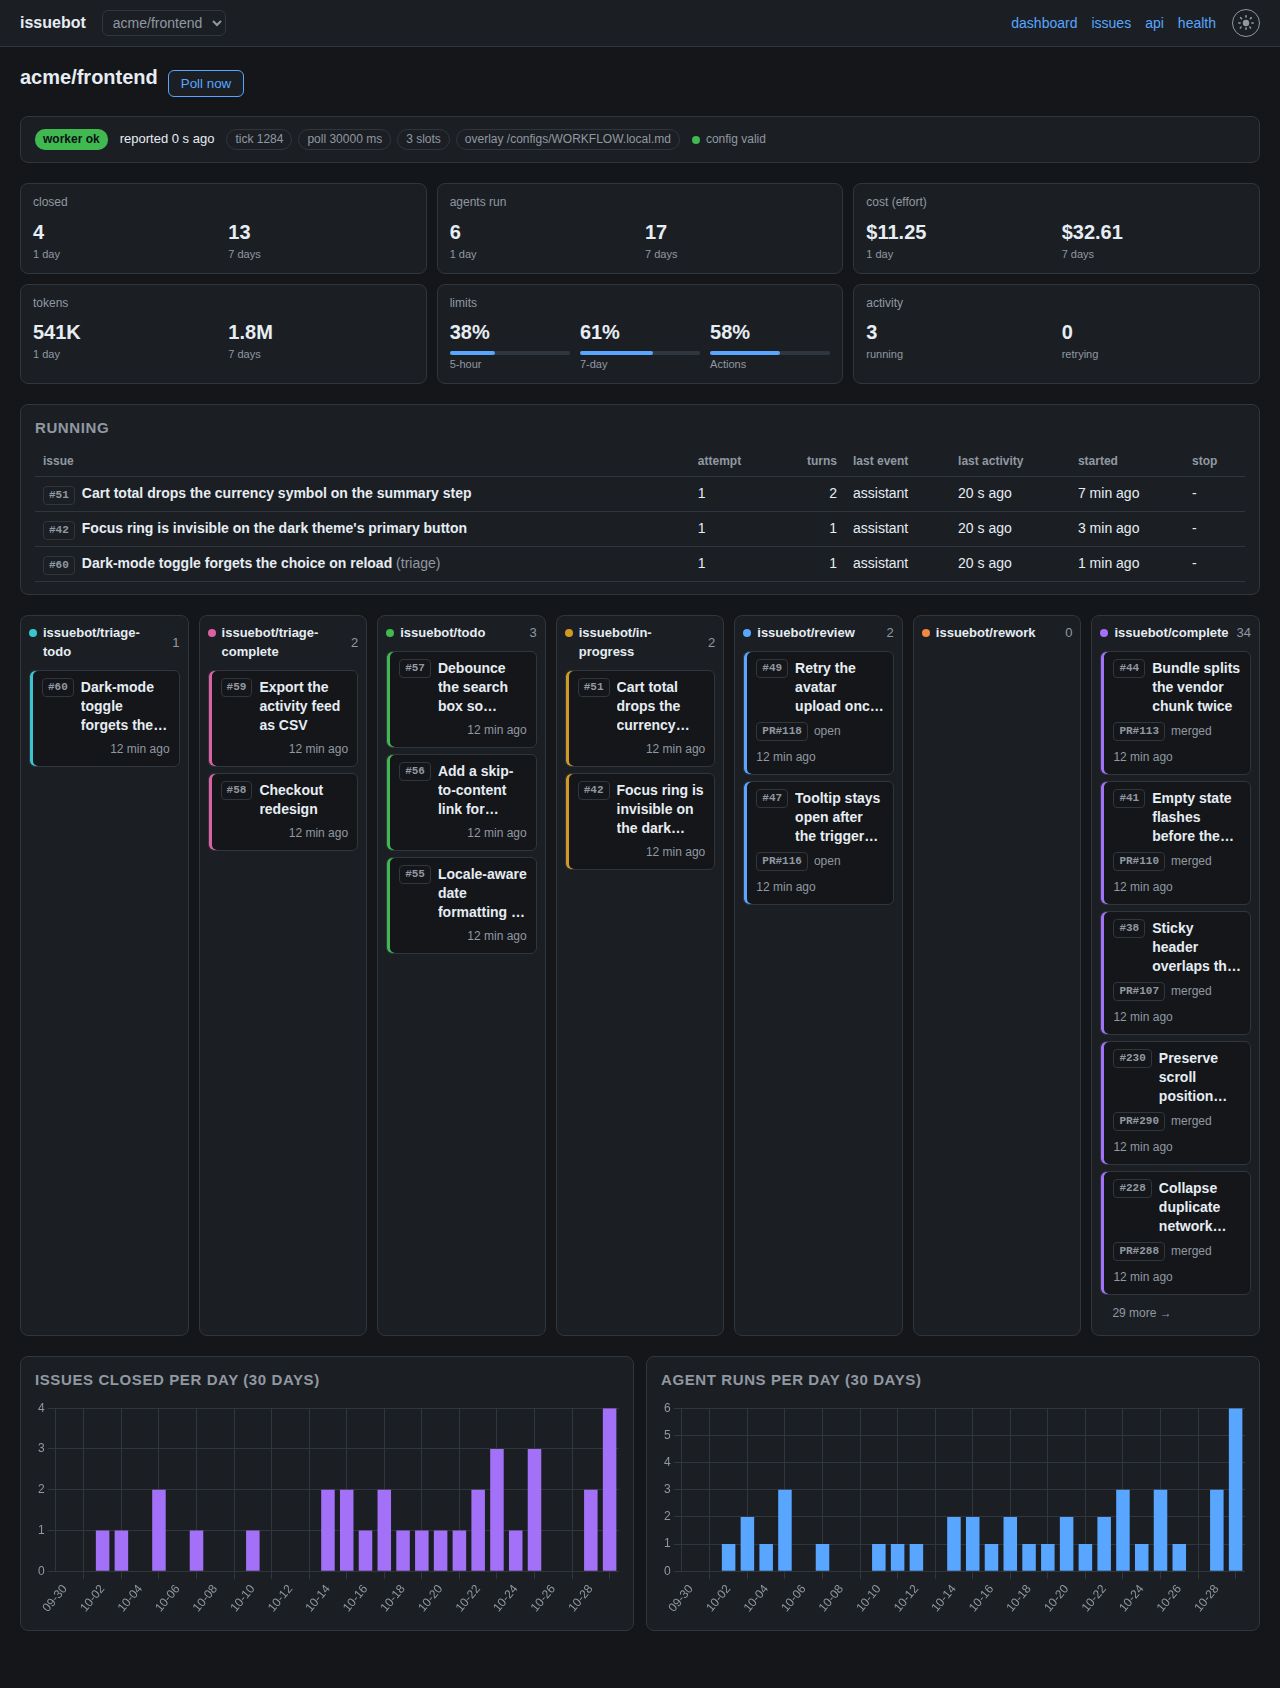
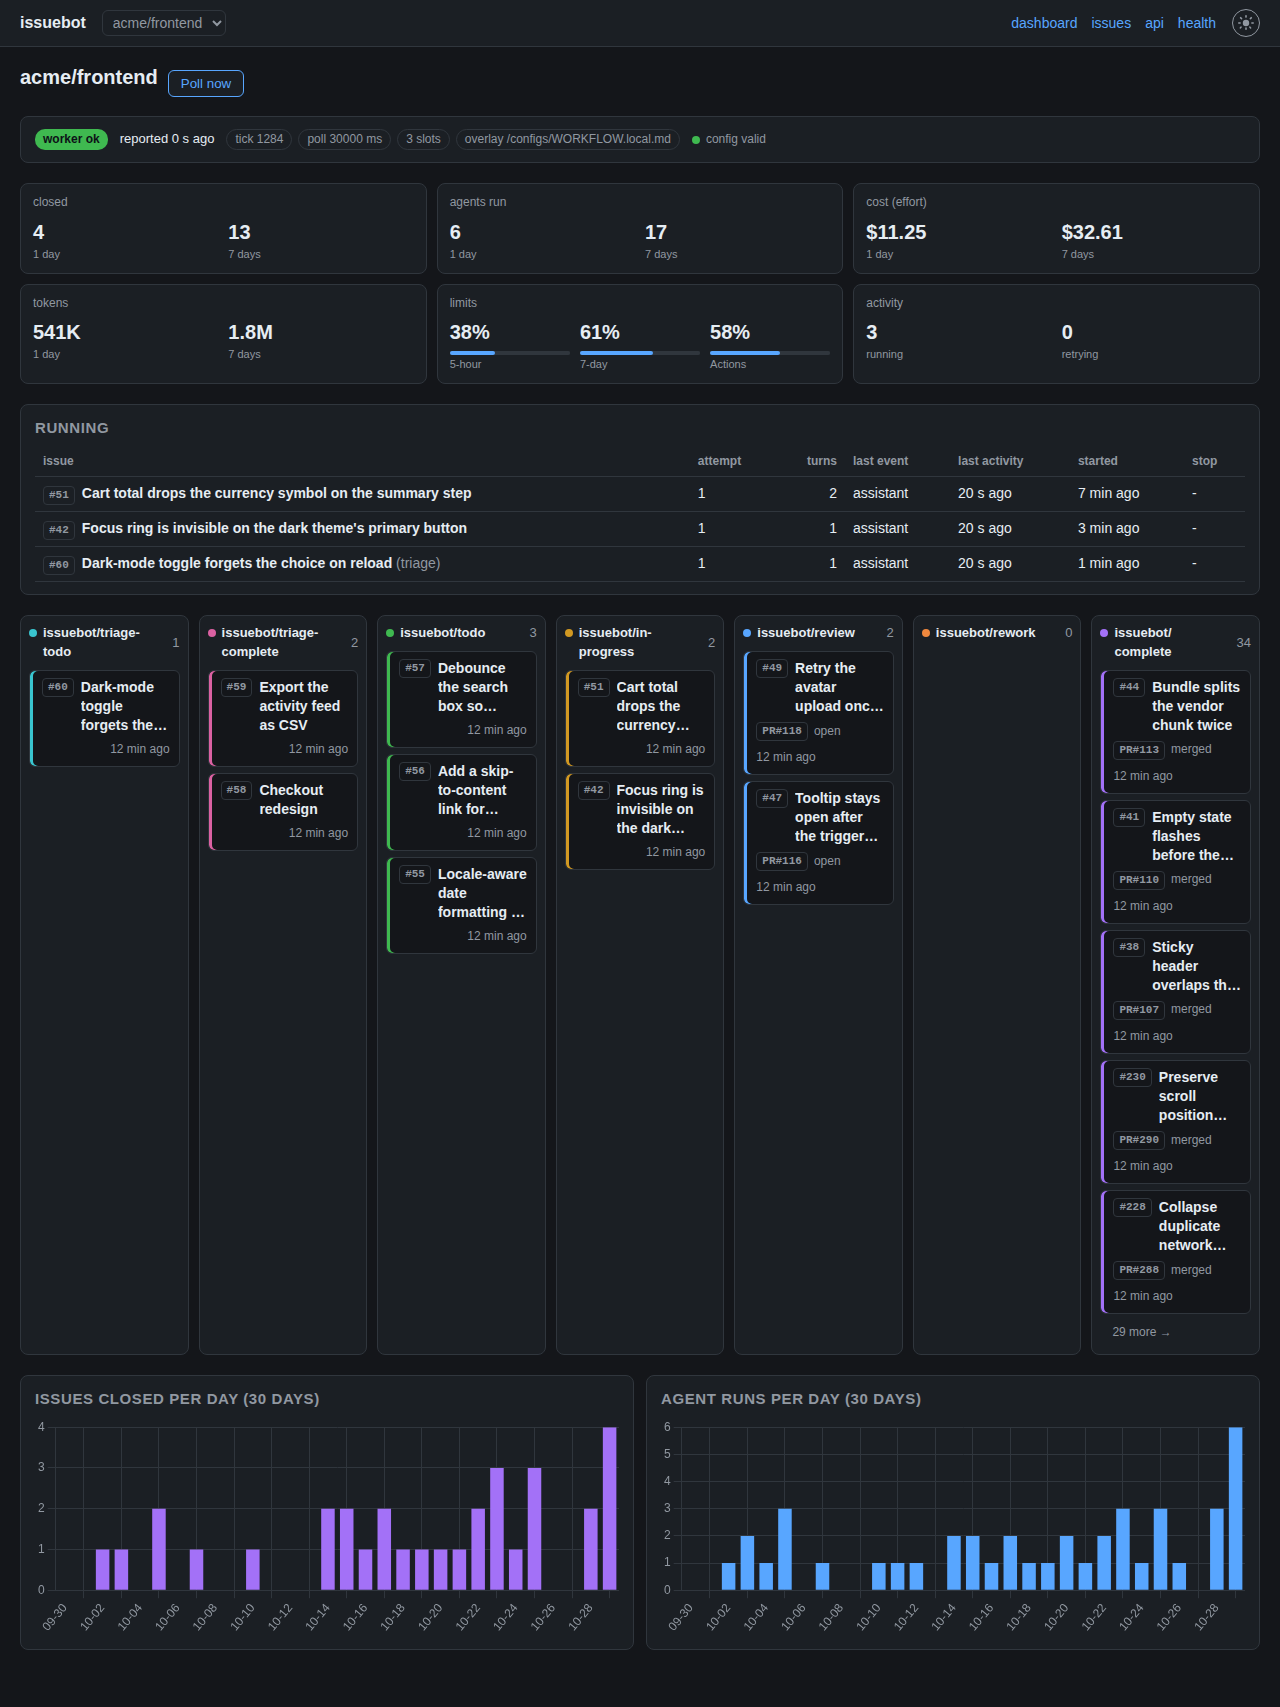
web: a column heading may break after each slash, and the README's images regenerated
issuebot/complete has no hyphen, so in the 150 px columns its heading ran
into its count. The label is escaped first, then <wbr> follows each slash.

Claude-Session: https://claude.ai/code/session_019agwxcWUZKkqVuL73ZfE76

diff --git a/src/issuebot/web/templates/partials/dashboard.html b/src/issuebot/web/templates/partials/dashboard.html
@@ -134,7 +134,7 @@
 <section class="kanban">
   {% for column in live.columns %}
   <div class="column {{ column.role }}">
-    <h3><span class="name">{{ column.label }}</span><span class="count">{{ column.total }}</span></h3>
+    <h3><span class="name">{{ column.label|replace("/", "/<wbr>"|safe) }}</span><span class="count">{{ column.total }}</span></h3>
     {% for row in column.rows %}
     <div class="card">
       <a class="issue-ref" href="{{ repo.base }}/issues/{{ row.number }}"><span class="chip">#{{ row.number }}</span><span class="text">{{ row.title }}</span></a>

diff --git a/tests/test_web_pages.py b/tests/test_web_pages.py
@@ -117,7 +117,7 @@ def test_the_dashboard_renders_and_escapes(h: Harness) -> None:
     assert '<link rel="icon" href="data:,">' in text
     assert '"code": "503", "swap": true' in text
     for label in GitHubLabels().as_tuple():
-        assert label in text
+        assert label.replace("/", "/<wbr>") in text
     assert f'href="{BASE}/issues/7"' in text and f'href="{BASE}/issues/3"' in text
     assert "javascript:" not in text and "PR#4" in text
     assert "<script>" not in text and ' style="' not in text  # the CSP forbids inline code
@@ -295,7 +295,7 @@ def test_the_board_has_a_column_per_board_column_in_order(h: Harness) -> None:
     text = html(h.client.get(f"{BASE}/partials/dashboard"))
     classes = re.findall(r'<div class="column ([a-z_]+)">', text)
     assert classes == list(BOARD_COLUMNS)
-    assert "issuebot/triage-todo" in text and "issuebot/triage-complete" in text
+    assert "issuebot/<wbr>triage-todo" in text and "issuebot/<wbr>triage-complete" in text
 
 
 def test_the_running_title_is_still_escaped(h: Harness) -> None:
@@ -1010,7 +1010,20 @@ def test_the_scripts_load_in_an_order_app_js_can_work_in(h: Harness) -> None:
 def test_the_board_uses_the_repositorys_own_labels(h: Harness) -> None:
     h.register("acme/frontend", labels={**GitHubLabels().model_dump(), "review": "team/check"})
     text = html(h.client.get("/r/acme/frontend/"))
-    assert "team/check" in text and "issuebot/review" not in text
+    assert "team/<wbr>check" in text and "issuebot/review" not in text
+
+
+def test_a_column_heading_may_break_after_each_slash(h: Harness) -> None:
+    """``issuebot/complete`` has no hyphen, so without a ``<wbr>`` it overran its count."""
+    text = html(h.client.get(f"{BASE}/partials/dashboard"))
+    assert '<span class="name">issuebot/<wbr>complete</span>' in text
+
+
+def test_a_column_heading_is_escaped_before_the_break_is_added(h: Harness) -> None:
+    h.register("acme/frontend", labels={**GitHubLabels().model_dump(), "complete": "a<b>/c"})
+    text = html(h.client.get("/r/acme/frontend/"))
+    assert '<span class="name">a&lt;b&gt;/<wbr>c</span>' in text
+    assert "<b>" not in text
 
 
 # --- the pure helpers -------------------------------------------------------------------------

diff --git a/tests/test_web_app_db.py b/tests/test_web_app_db.py
@@ -184,7 +184,7 @@ async def test_the_dashboard_renders_the_seeded_rows(client: TestClient) -> None
     response = client.get(f"{BASE}/")
     assert response.status_code == 200
     for label in GitHubLabels().as_tuple():
-        assert label in response.text
+        assert label.replace("/", "/<wbr>") in response.text
     assert (
         "Issue 7 &lt;b&gt;title&lt;/b&gt;" in response.text and "<b>title</b>" not in response.text
     )

diff --git a/tests/test_web_theme.py b/tests/test_web_theme.py
@@ -358,7 +358,7 @@ def test_the_column_heading_names_its_state_in_words_too() -> None:
     markup = (files("issuebot.web") / "templates" / "partials" / "dashboard.html").read_text(
         encoding="utf-8"
     )
-    assert '<h3><span class="name">{{ column.label }}</span>' in markup
+    assert '<h3><span class="name">{{ column.label|' in markup
 
 
 def test_the_light_state_tokens_are_githubs_label_hexes_where_they_can_be() -> None:
